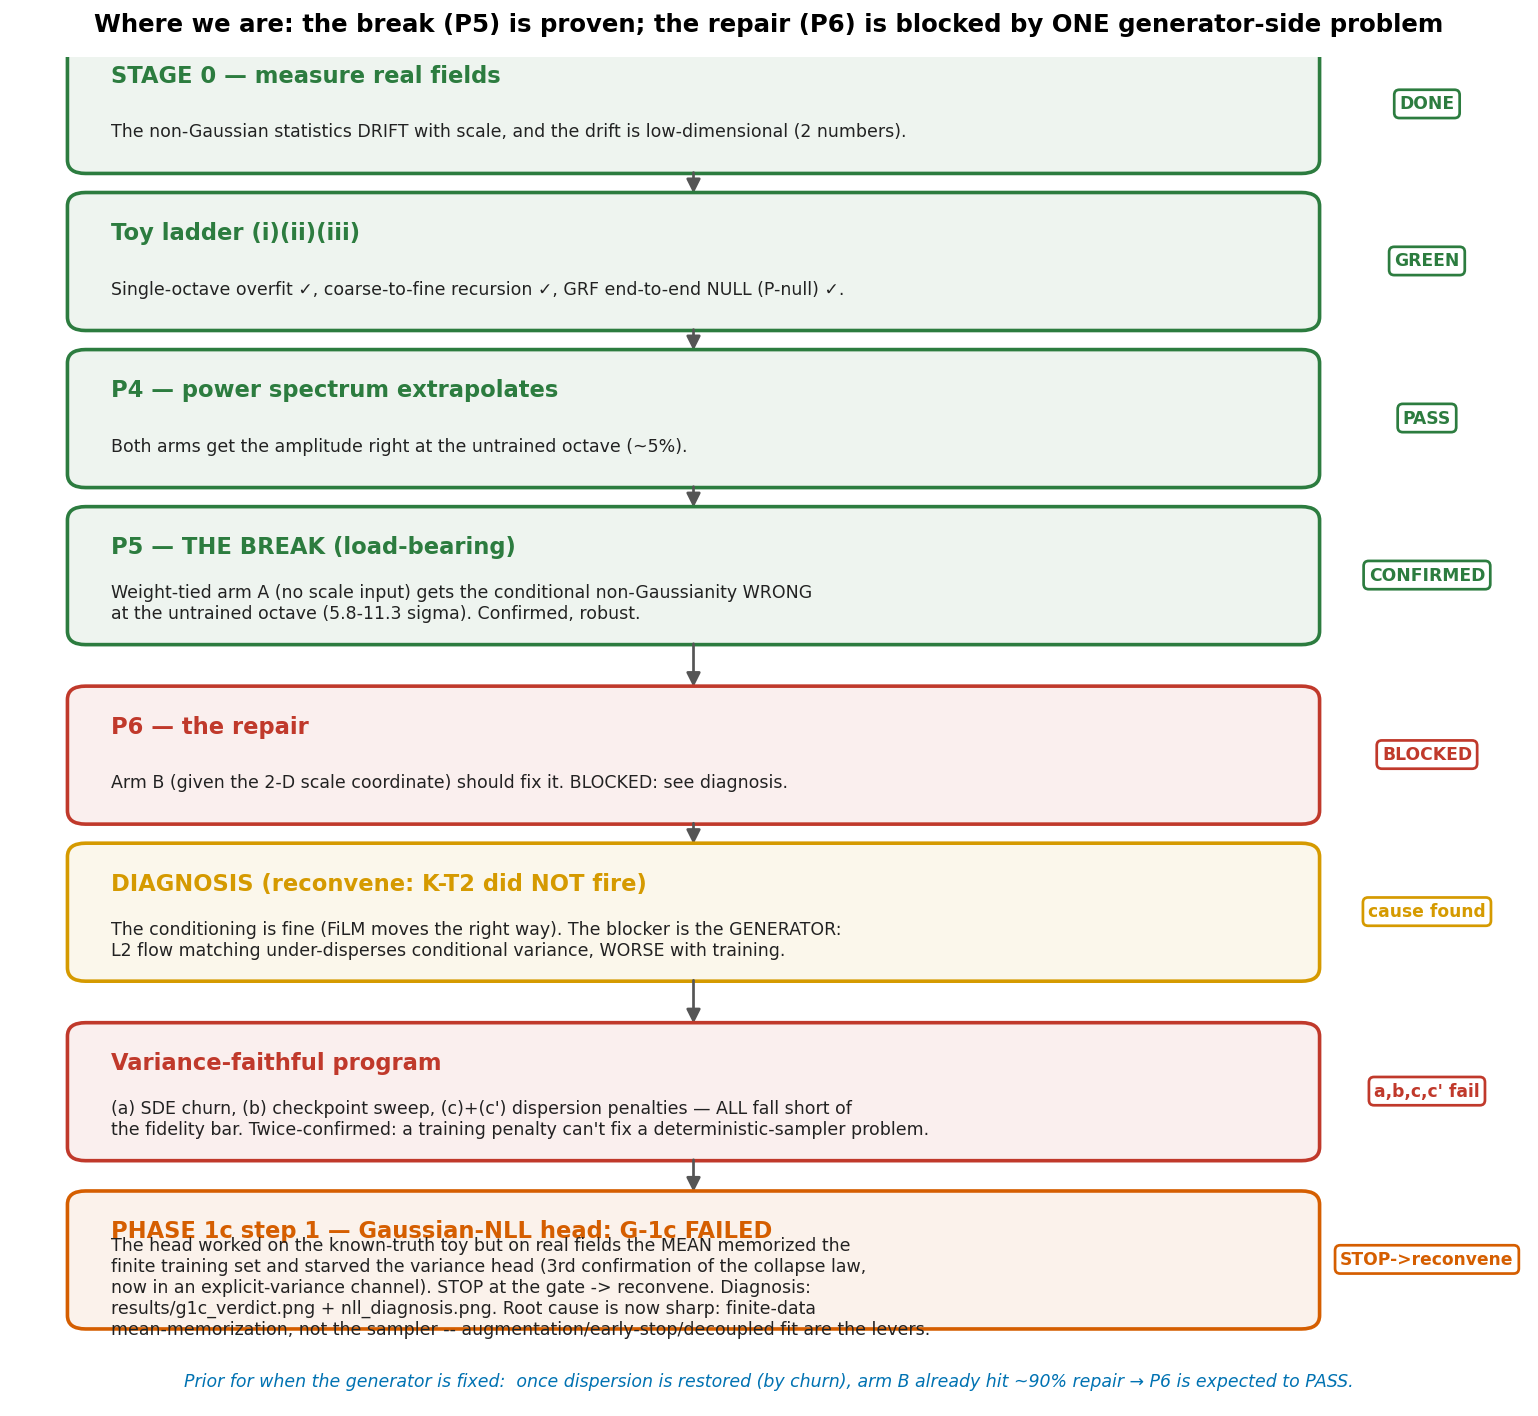
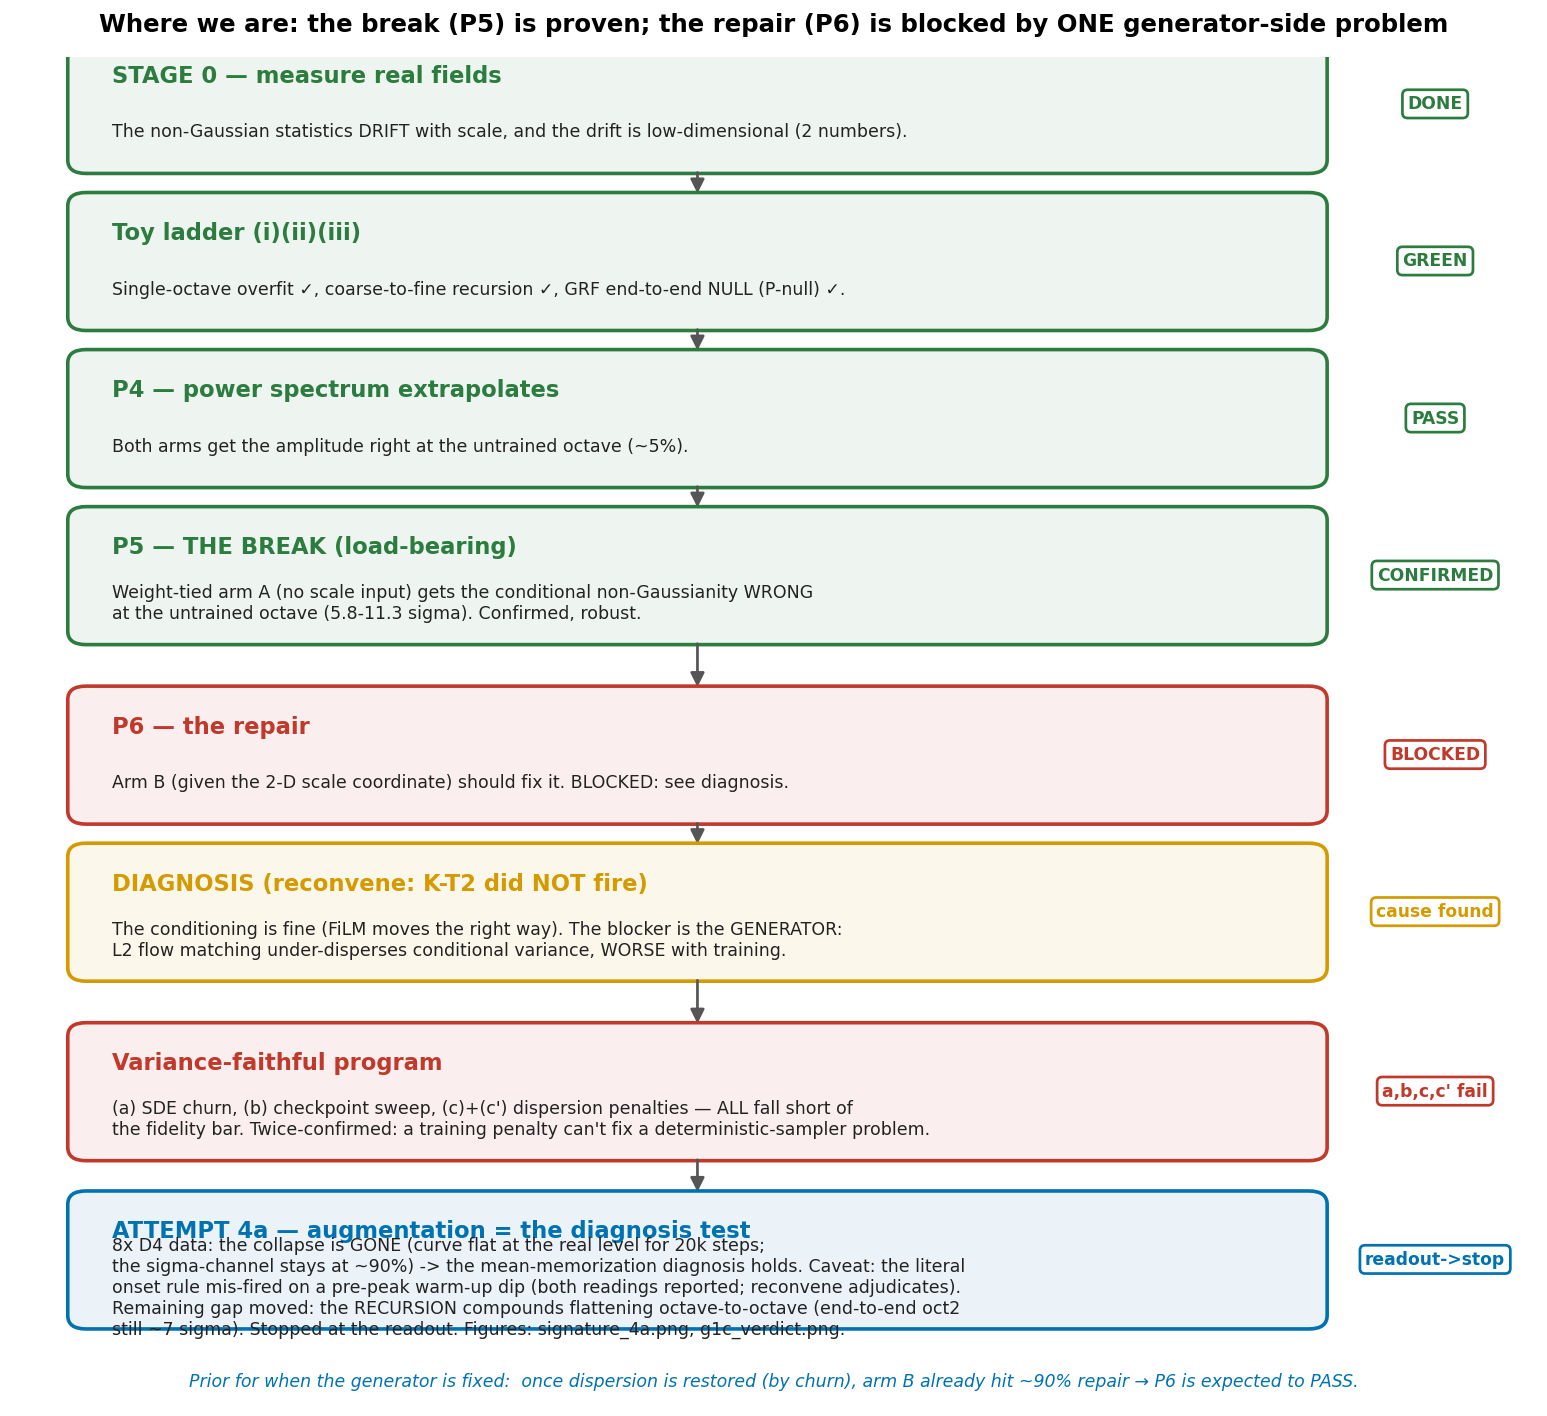
4a readout: collapse ELIMINATED by 8x augmentation (sigma-channel ~90% for 20k steps) -- literal onset rule mis-fires pre-peak, both readings reported, stopped for reconvene
Implied oct-2 var_slope flat at 0.95-1.01 (real 1.02) through 20k; baseline sank to
0.75 by 10k. Literal rule fires on the 2k warm-up dip that precedes the curve's peak
(6k): literal=REFUTED, running-peak intent=CONFIRMED (censored >20k). Descriptive:
end-to-end scorer still 0.746 vs 1.020 at oct 2 (~7 sigma) -- the deficit moved from
the head (fixed given real coarse) to recursion compounding; arm B OOD amplitude
instability gone under augmentation; P5 intact; kurtosis still short.

diff --git a/scripts/signature_4a.py b/scripts/signature_4a.py
@@ -84,11 +84,26 @@ def curve(ckpt_dir, steps_list, final_step, channels, std_by_j, j):
 
 
 def onset(steps, S):
+    """LITERAL pre-registered rule: first checkpoint >=DROP below the GLOBAL max.
+    Mis-fires if a warm-up dip precedes the curve's peak (impossible on the baseline,
+    which peaks at its first checkpoint)."""
     peak = S.max()
     for s, v in zip(steps, S):
         if peak - v >= DROP:
             return int(s)
     return None                                          # censored (never collapsed)
+
+
+def onset_running(steps, S):
+    """The rule's INTENT: first checkpoint >=DROP below the RUNNING peak — a collapse
+    is a decay from a previously attained level, not a pre-peak warm-up transient.
+    Identical to `onset` on any curve that peaks first (e.g. the baseline)."""
+    peak = -np.inf
+    for s, v in zip(steps, S):
+        peak = max(peak, v)
+        if peak - v >= DROP:
+            return int(s)
+    return None
 
 
 final_aug = load(os.path.join(REPO, "data_cache", "ckpt_aug", "armA_gowerstreet.pkl"))
@@ -104,23 +119,32 @@ st_a3, S_a3, _ = curve(os.path.join(REPO, "data_cache", "ckpt_aug"),
                        final_aug["channels"], final_aug["std_by_j"], 3)
 
 on_b, on_a = onset(st_b, S_b), onset(st_a, S_a)
+on_b_run, on_a_run = onset_running(st_b, S_b), onset_running(st_a, S_a)
 print("baseline oct2:", dict(zip(st_b.tolist(), np.round(S_b, 3))))
 print("augmented oct2:", dict(zip(st_a.tolist(), np.round(S_a, 3))))
 print("augmented oct3:", dict(zip(st_a3.tolist(), np.round(S_a3, 3))))
 print("sigma-share aug:", dict(zip(st_a.tolist(), np.round(sh_a, 3))))
-print(f"onset baseline = {on_b}, onset augmented = {on_a or '>20000 (censored)'}")
-if on_a is None or on_a >= 16000:
-    branch = "CONFIRMED (>=4x shift) -- diagnosis supported"
-elif on_a <= 8000:
-    branch = "REFUTED (<=2x) -- HARD STOP, no 4b"
-else:
-    branch = "INTERMEDIATE -- reconvene judges"
+print(f"onset LITERAL rule: baseline={on_b}, augmented={on_a or '>20000 (censored)'}")
+print(f"onset RUNNING-PEAK: baseline={on_b_run}, augmented={on_a_run or '>20000 (censored)'}")
+
+
+def classify(o):
+    if o is None or o >= 16000:
+        return "CONFIRMED (>=4x shift / censored)"
+    return "REFUTED (<=2x)" if o <= 8000 else "INTERMEDIATE"
+
+
+print("LITERAL-rule branch:      ", classify(on_a))
+print("RUNNING-PEAK-rule branch: ", classify(on_a_run))
+branch = (classify(on_a) if classify(on_a) == classify(on_a_run) else
+          f"rule-dependent: literal={classify(on_a)}, intent={classify(on_a_run)} — reconvene adjudicates")
 print("SIGNATURE BRANCH:", branch)
 
 np.savez(os.path.join(REPO, "results", "signature_4a.npz"),
          steps_aug=st_a, S_aug=S_a, share_aug=sh_a, steps_base=st_b, S_base=S_b,
          share_base=sh_b, steps_aug3=st_a3, S_aug3=S_a3,
-         onset_base=on_b or -1, onset_aug=on_a or -1)
+         onset_base=on_b or -1, onset_aug=on_a or -1,
+         onset_base_running=on_b_run or -1, onset_aug_running=on_a_run or -1)
 
 REAL2 = 1.020
 fig, ax = plt.subplots(1, 2, figsize=(12.6, 5.0))
@@ -129,13 +153,13 @@ ax[0].plot(st_b, S_b, "-o", color=BLUE, lw=2,
            label="BASELINE (322 tiles): collapses early")
 ax[0].plot(st_a, S_a, "-s", color=GREEN, lw=2,
            label="AUGMENTED (8x data): the diagnosis test")
-if on_b:
-    ax[0].axvline(on_b, color=BLUE, ls=":", alpha=0.7)
-    ax[0].text(on_b, ax[0].get_ylim()[0] + 0.02, " baseline collapse onset",
+if on_b_run:
+    ax[0].axvline(on_b_run, color=BLUE, ls=":", alpha=0.7)
+    ax[0].text(on_b_run, ax[0].get_ylim()[0] + 0.02, " baseline collapse onset",
                color=BLUE, fontsize=8.5, rotation=90, va="bottom")
-if on_a:
-    ax[0].axvline(on_a, color=GREEN, ls=":", alpha=0.7)
-    ax[0].text(on_a, ax[0].get_ylim()[0] + 0.02, " augmented onset",
+if on_a_run:
+    ax[0].axvline(on_a_run, color=GREEN, ls=":", alpha=0.7)
+    ax[0].text(on_a_run, ax[0].get_ylim()[0] + 0.02, " augmented onset",
                color=GREEN, fontsize=8.5, rotation=90, va="bottom")
 ax[0].set_xlabel("training steps")
 ax[0].set_ylabel("implied var_slope of generated detail (octave 2, arm A)")
@@ -148,7 +172,9 @@ ax[1].set_xlabel("training steps")
 ax[1].set_ylabel("share of generated variance carried by the σ-head  [%]")
 ax[1].set_title("Does the variance channel stay alive?\n(baseline: the mean starves it)")
 ax[1].legend(fontsize=9); ax[1].grid(alpha=0.25)
-fig.suptitle(f"Attempt 4a signature readout — {branch}", fontsize=12.5)
+fig.suptitle("Attempt 4a readout: NO collapse within 20k steps (green stays at the real level; "
+             "σ-channel alive at ~90%)\nliteral onset rule mis-fires on the pre-peak warm-up dip at 2k "
+             "— both rule readings reported; reconvene adjudicates", fontsize=11.5)
 fig.tight_layout(rect=[0, 0, 1, 0.93])
 out = os.path.join(REPO, "results", "signature_4a.png")
 fig.savefig(out, dpi=130, bbox_inches="tight")

diff --git a/scripts/plot_roadmap.py b/scripts/plot_roadmap.py
@@ -18,7 +18,7 @@ steps = [
     (4.6, "P6 — the repair", "Arm B (given the 2-D scale coordinate) should fix it. BLOCKED: see diagnosis.", RED, "BLOCKED"),
     (3.2, "DIAGNOSIS (reconvene: K-T2 did NOT fire)", "The conditioning is fine (FiLM moves the right way). The blocker is the GENERATOR:\nL2 flow matching under-disperses conditional variance, WORSE with training.", AMBER, "cause found"),
     (1.6, "Variance-faithful program", "(a) SDE churn, (b) checkpoint sweep, (c)+(c') dispersion penalties — ALL fall short of\nthe fidelity bar. Twice-confirmed: a training penalty can't fix a deterministic-sampler problem.", RED, "a,b,c,c' fail"),
-    (0.1, "PHASE 1c step 1 — Gaussian-NLL head: G-1c FAILED", "The head worked on the known-truth toy but on real fields the MEAN memorized the\nfinite training set and starved the variance head (3rd confirmation of the collapse law,\nnow in an explicit-variance channel). STOP at the gate -> reconvene. Diagnosis:\nresults/g1c_verdict.png + nll_diagnosis.png. Root cause is now sharp: finite-data\nmean-memorization, not the sampler -- augmentation/early-stop/decoupled fit are the levers.", "#D55E00", "STOP->reconvene"),
+    (0.1, "ATTEMPT 4a — augmentation = the diagnosis test", "8x D4 data: the collapse is GONE (curve flat at the real level for 20k steps;\nthe sigma-channel stays at ~90%) -> the mean-memorization diagnosis holds. Caveat: the literal\nonset rule mis-fired on a pre-peak warm-up dip (both readings reported; reconvene adjudicates).\nRemaining gap moved: the RECURSION compounds flattening octave-to-octave (end-to-end oct2\nstill ~7 sigma). Stopped at the readout. Figures: signature_4a.png, g1c_verdict.png.", BLUE, "readout->stop"),
 ]
 fig, ax = plt.subplots(figsize=(12, 11))
 ax.set_xlim(0, 10); ax.set_ylim(-0.6, 11.4); ax.axis("off")

diff --git a/RESULTS-phase1c.md b/RESULTS-phase1c.md
@@ -87,6 +87,39 @@ the unit-scale toy passed while the real fields failed — the toy had no
 memorization-capacity mismatch (its σ carried all signal; the real fields' mean can
 substitute for variance), which is exactly the gap the diagnosis exposes.
 
+## Attempt 4a — the diagnosis test (D4 augmentation alone; ruling of 2026-07-11)
+
+Pre-registered `log/2026-07-11-prereg-4a-augment.md`; job 15744601, hash 1e61bd812a
+verified. Figure: `results/signature_4a.png`.
+
+**Readout: the collapse is GONE within the 20k horizon.** Implied var_slope (oct 2,
+arm A): baseline 0.97@2k → 0.75@10k (collapse); augmented 0.94@1k → dip 0.85@2k →
+**0.97–1.01 flat from 4k to 20k** (real: 1.02). The σ-head's share of generated
+variance: baseline crashes 81%→17%; augmented holds **86–93% throughout** — the
+variance channel stays alive. Training loss floors at 1.26 vs 0.43 un-augmented (less
+memorization headroom), as the diagnosis predicts.
+
+**Signature adjudication — honest rule caveat.** The LITERAL pre-registered onset rule
+("first checkpoint ≥0.10 below the curve's maximum") fires at 2k — on the warm-up dip
+that PRECEDES the curve's own peak (6k), which cannot be a collapse onset; the rule was
+written against curves that peak first (true of the baseline, where both readings
+coincide at 4k). Under the rule as written: REFUTED. Under its manifest intent (drop
+from the RUNNING peak): censored >20k → CONFIRMED in the strongest form. Both readings
+are computed and reported (`scripts/signature_4a.py`); the visual fact is not in
+dispute. **Stopped at the readout; the reconvene adjudicates the rule.**
+
+**Second finding (descriptive, frozen scorer on the 20k fields —
+`results/arms_aug_score.json`): the head is fixed but the RECURSION now limits.**
+End-to-end (coarse-to-fine from octave 4), oct-2 var_slope measures 0.746±0.014 vs
+real 1.020±0.038 (~7σ) even though the head's conditional response GIVEN REAL COARSE
+is 0.96. The deficit has moved: no longer the head's collapse, but octave-to-octave
+compounding — each octave conditions on generated (slightly flattened) coarse, and the
+flattening accumulates (oct 4: 0.475 vs 0.532 mild → oct 2: 0.75). Note for any 4b
+decision: the two-stage residual-fit targets head calibration, not compounding.
+Also descriptive: arm B's OOD amplitude blow-up is GONE under augmentation (oct-1
+detail_std 0.689–0.729 vs real 0.743, was +71%/+43%); P4 at oct 1 PASSES (1.9%/7.2%);
+P5 break intact (z≈8); kurtosis still fails (~3.0 vs 6.7 at oct 2).
+
 ## For the reconvene (observations, not actions — G-1c bars further variants)
 
 The mechanism points at the MEAN's finite-data memorization as the single upstream

diff --git a/log/2026-07-11-prereg-4a-augment.md b/log/2026-07-11-prereg-4a-augment.md
@@ -51,6 +51,20 @@ out `results/arms_aug.npz`, ckpt-dir `data_cache/ckpt_aug`.
 **config_hash 1e61bd812a** (absolute paths pinned in the SLURM script).
 Expected wall: ~35–45 min (2 arms × 20k NLL steps at MIG ~2/7 compute).
 
+## RESULT (2026-07-11, harvested same day): readout delivered — rule-dependent, STOPPED
+
+Job 15744601 completed (453 s, hash 1e61bd812a verified). **The collapse is gone within
+the horizon**: augmented oct-2 implied var_slope flat at 0.95–1.01 from 4k to 20k
+(real 1.02; baseline had sunk to 0.75 by 10k); σ-share 86–93% vs baseline 81→17%.
+**Rule caveat, reported honestly:** the literal onset rule fires at 2k on a warm-up dip
+that PRECEDES the curve's peak (6k) → literal reading REFUTED; the running-peak intent
+reading gives onset censored >20k → CONFIRMED (strongest form). Both computed in
+`scripts/signature_4a.py`; reconvene adjudicates. Descriptive extras: end-to-end frozen
+scorer still 0.746±0.014 at oct 2 (~7σ) — the deficit moved from the head (fixed) to
+RECURSION COMPOUNDING (generated coarse flattens octave-by-octave); arm B's OOD
+amplitude instability disappeared under augmentation; P5 intact; kurtosis still short.
+Stopped at the readout per the ruling.
+
 ## Predictions
 
 P-4a-shift (signature CONFIRMED): **65%** (the ruling's number; mine agrees — the

diff --git a/JOBS.md b/JOBS.md
@@ -14,7 +14,15 @@ generation. GPU via SLURM only.
   amplitude fix). `RESULTS-toy.md` written.
 
 ## IN FLIGHT
-**None.** All phase-1c step-1 jobs harvested.
+**None.** All phase-1c step-1 and attempt-4a jobs harvested.
+
+## HARVESTED (attempt 4a — augmentation diagnosis test)
+- **15744601** (`scripts/arms_aug.slurm`, hash 1e61bd812a): collapse GONE within 20k
+  (implied oct-2 var_slope flat at ~real; σ-share ~90%); literal onset rule mis-fires
+  on the pre-peak warm-up dip (literal REFUTED / running-peak intent CONFIRMED) —
+  **stopped at the readout, reconvene adjudicates the rule.** End-to-end scorer still
+  ~7σ at oct 2: deficit moved to recursion compounding. `RESULTS-phase1c.md` §4a,
+  `results/signature_4a.png`, `results/arms_aug_score.json`.
 
 ## HARVESTED (phase 1c, step 1 — Gaussian-NLL detail head)
 Pre-registered `log/2026-07-11-prereg-1c-nllhead.md`.
